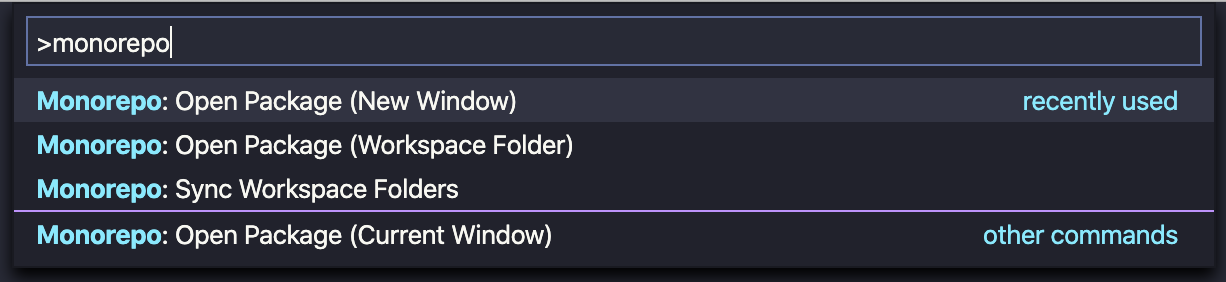
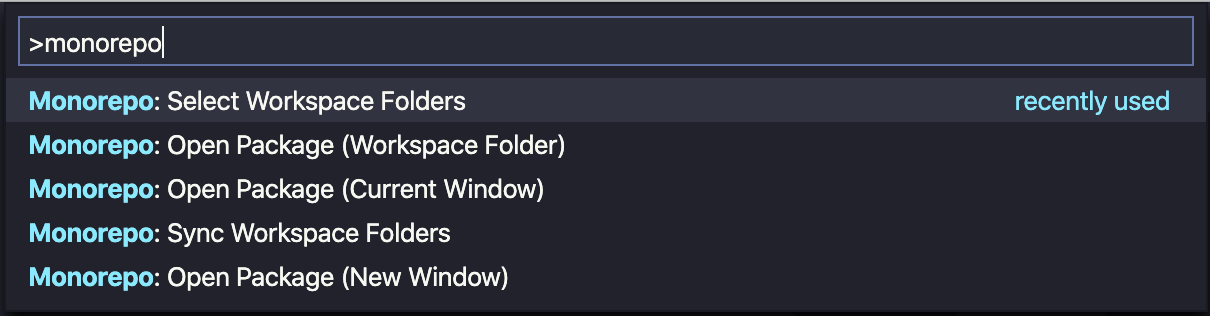
docs: 📚 updated documentation

Changed region(s): [[0.0, 0.0, 1.0, 1.0], [0.795, 0.7943, 0.9785, 0.8794]]

diff --git a/README.md b/README.md
@@ -8,7 +8,10 @@ All **Monorepo Workspace** functionality can be found in the command palette. Av
 
 ![Commands](images/commands.png)
 
-Selecting a package:
+Selecting workspace folders:
+![Select](images/select.png)
+
+Selecting one package:
 ![Commands](images/list.png)
 
 * `Monorepo: Select Workspace Folders`: select active folders in your workspace, including packages in your repository
